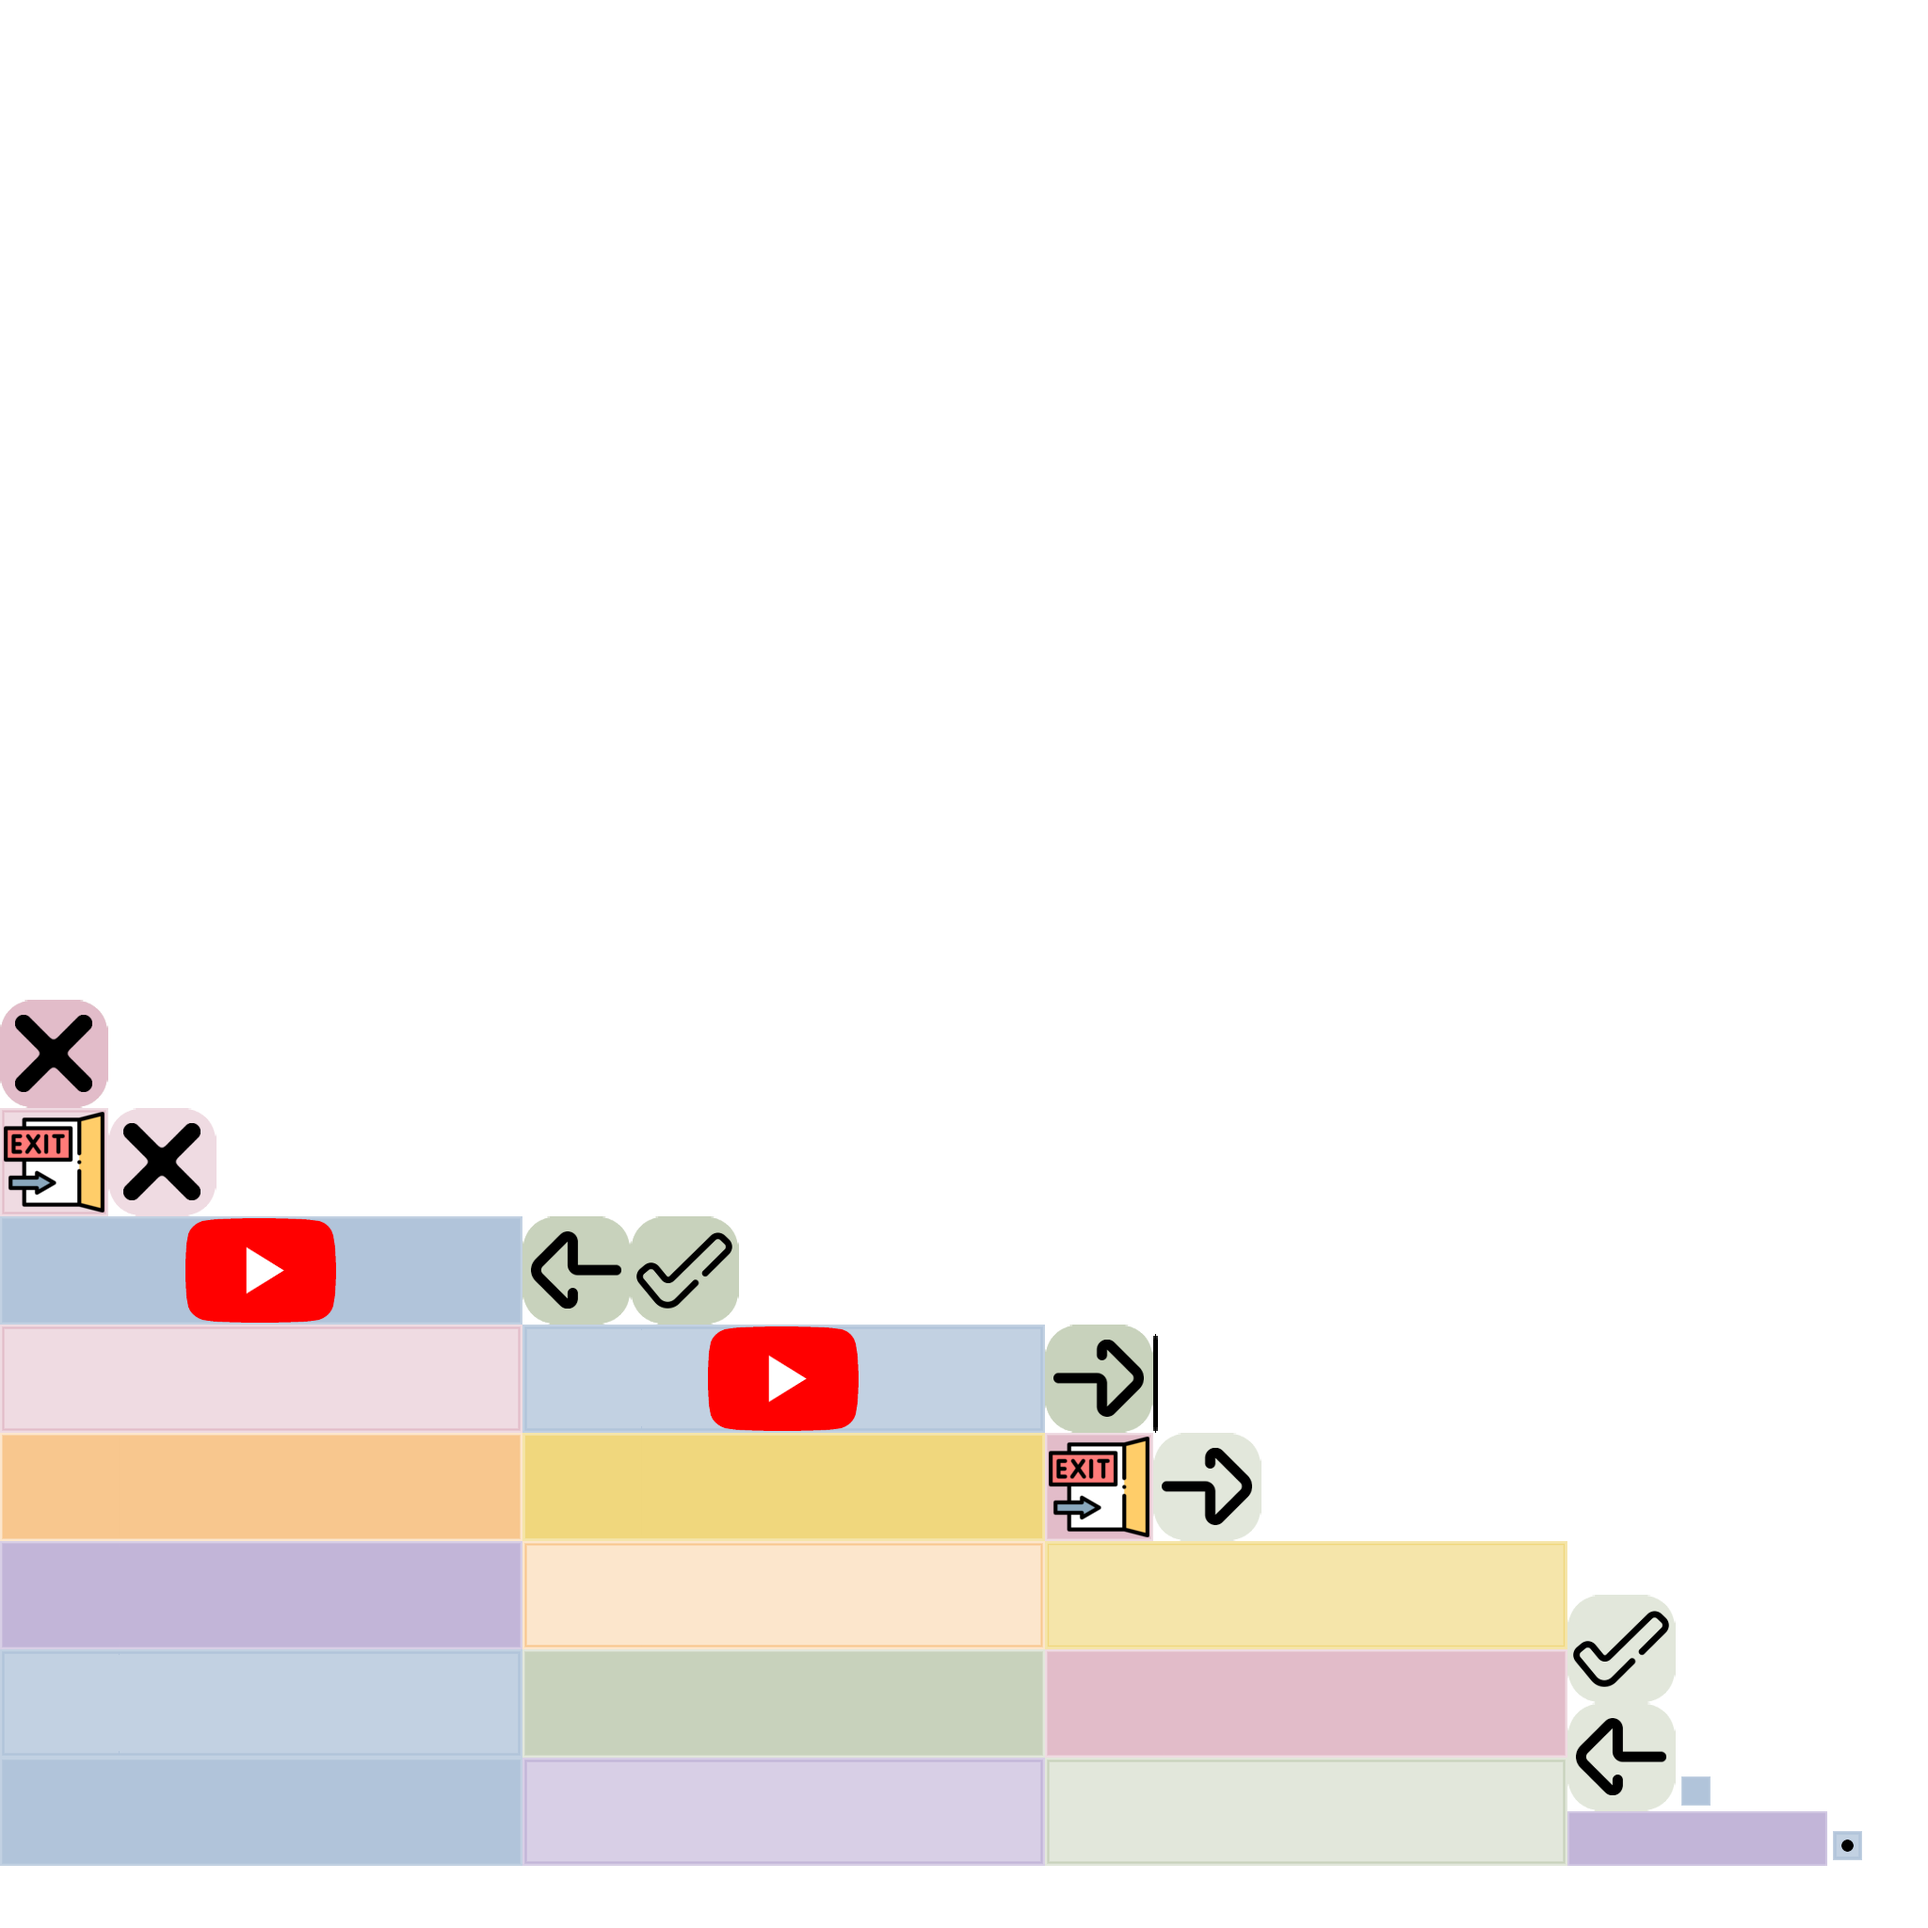
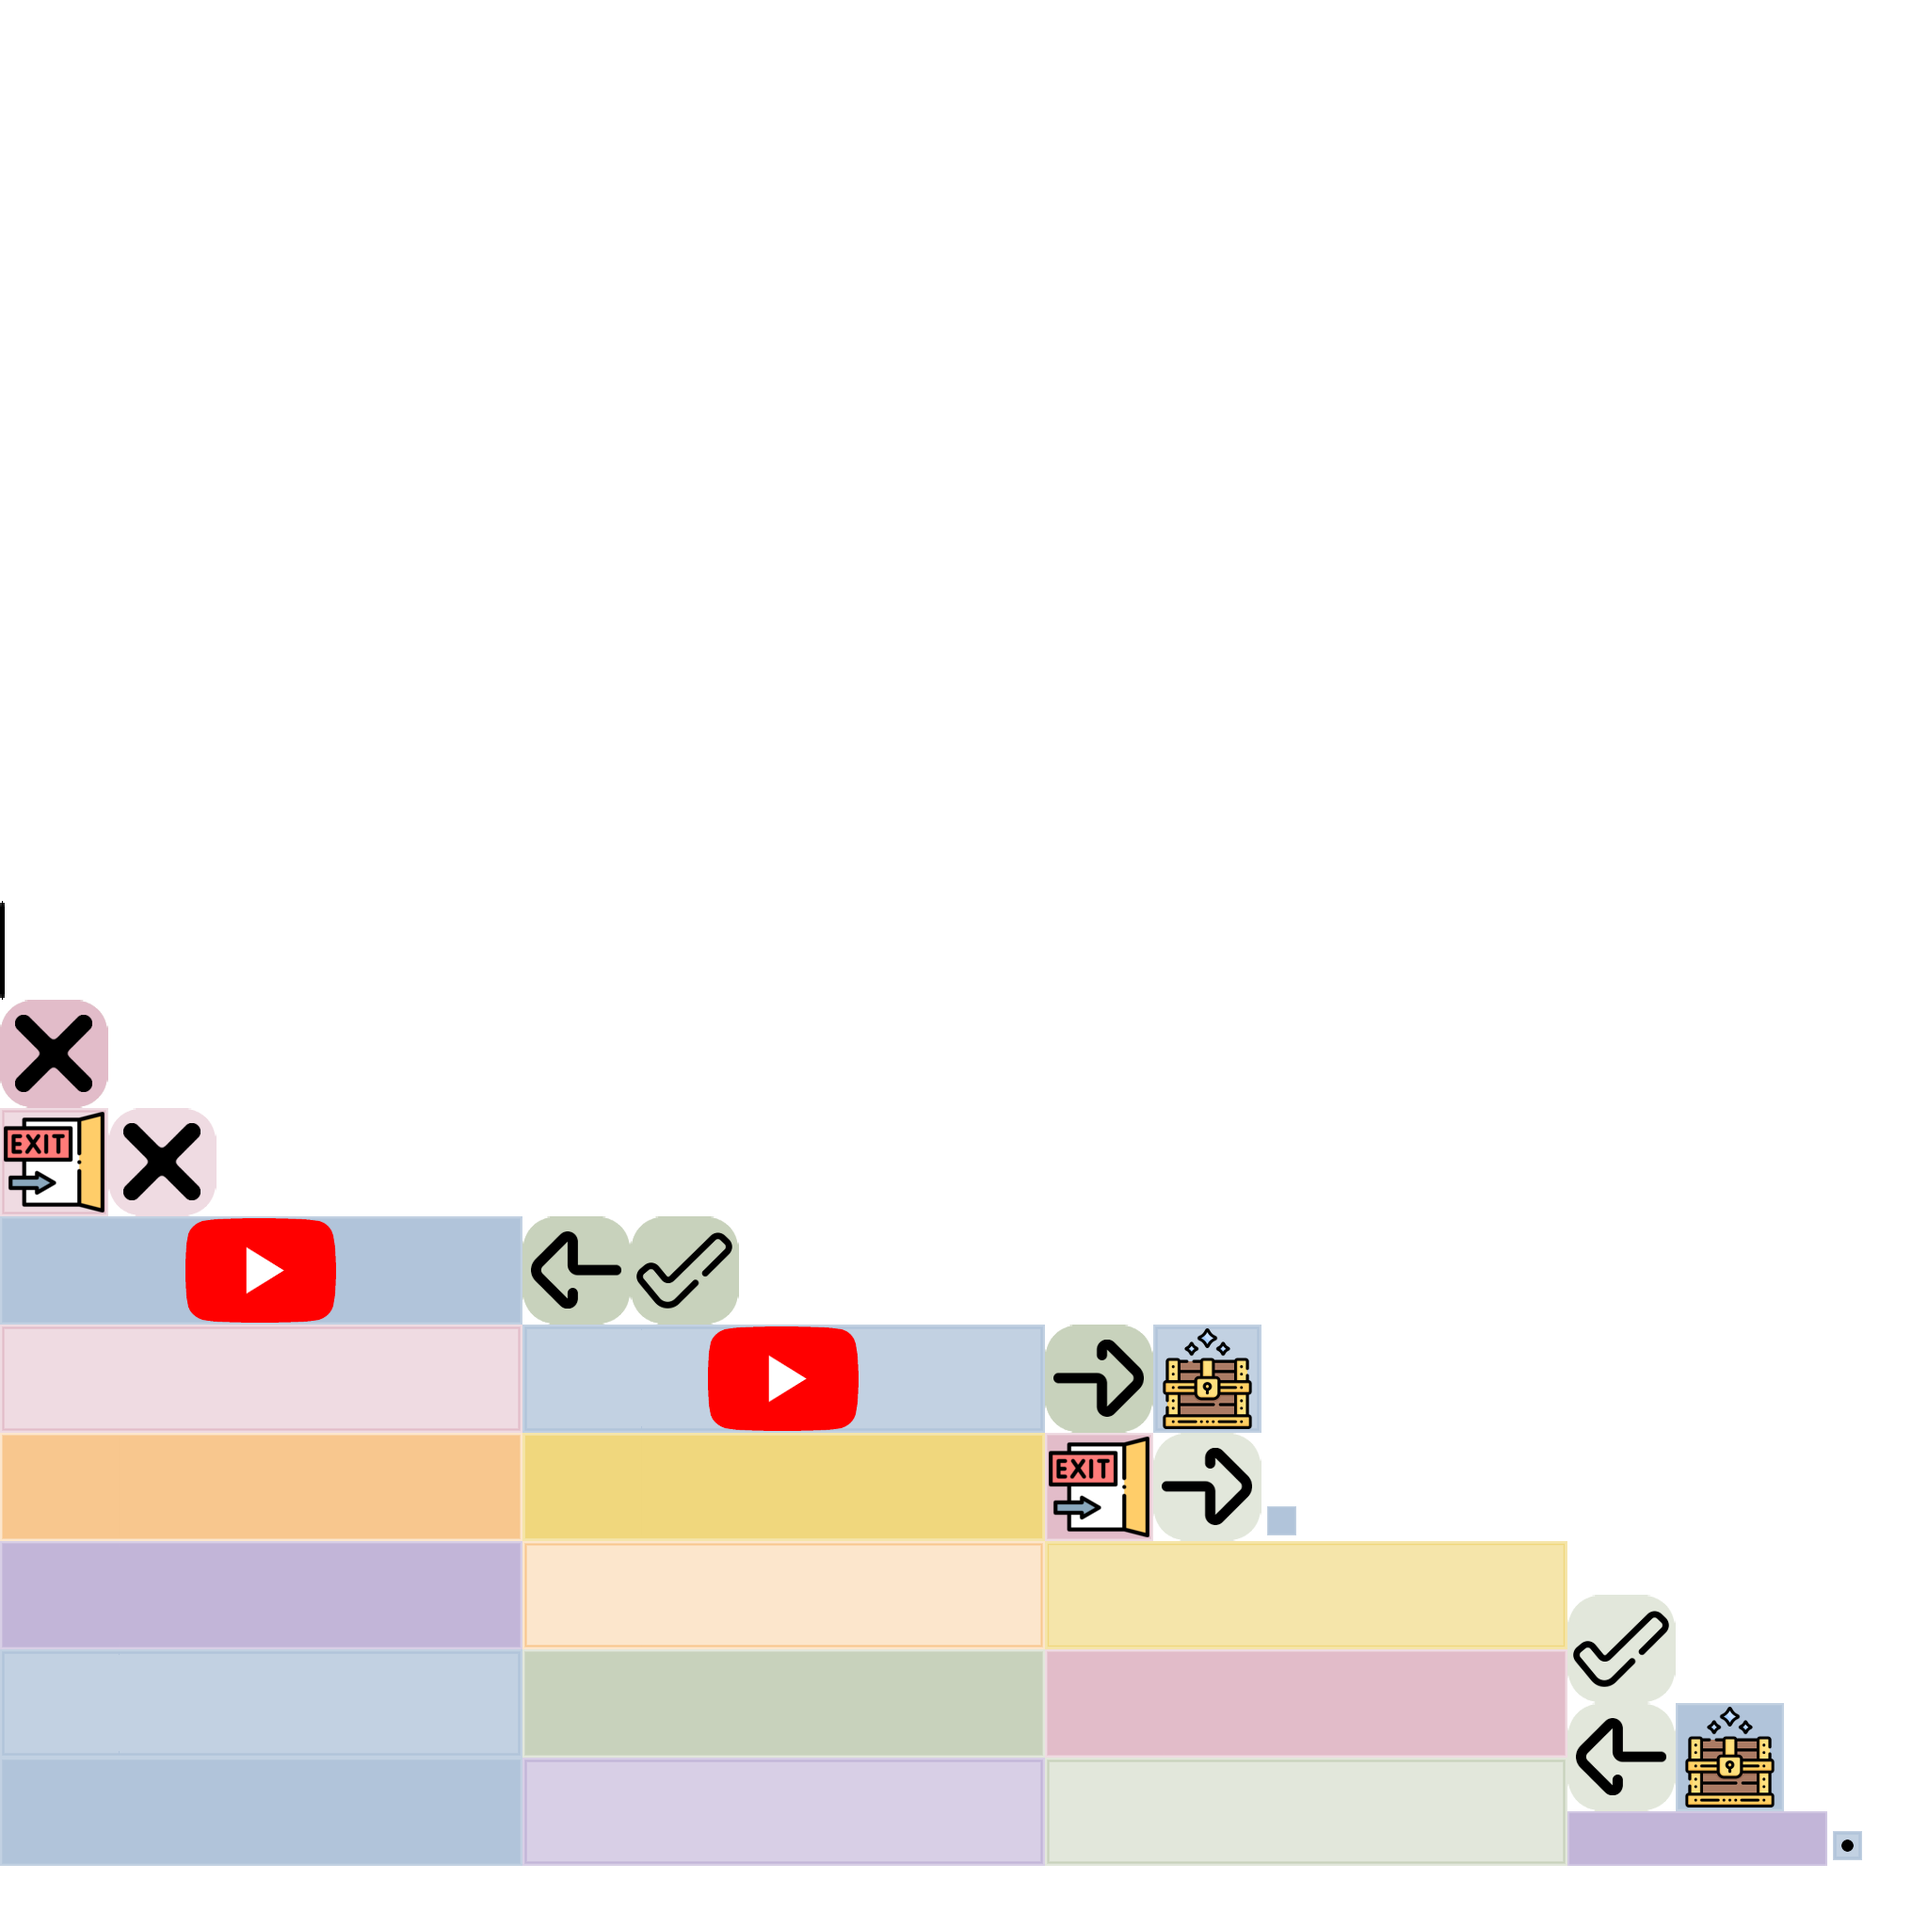
achievements are now treasures

Changed region(s): [[0.8438, 0.875, 0.9375, 0.9375], [0.5938, 0.6875, 0.6562, 0.75], [0.6562, 0.7812, 0.6875, 0.8125]]

diff --git a/core/src/com/mygdx/game/views/HomeScreen.java b/core/src/com/mygdx/game/views/HomeScreen.java
@@ -117,17 +117,20 @@ public class HomeScreen implements Screen {
 		userInfo.setText(userInfoMessage);
 		userInfo.setAlignment(Align.center);
 		Button logout = new Button(skin, "Exit"); //creates button with the "exit door"
-		Label latestAchievements = new Label("Latest Achivements:", skin); //creates a label with a purple background
+		Label latestAchievements = new Label("Latest Treasures:", skin); //creates a label with a purple background
 		latestAchievements.setAlignment(Align.center);
-		Label greatestAchievements = new Label("Greatest Achievements:", skin);
+		Label greatestAchievements = new Label("Greatest Treasures:", skin);
 		greatestAchievements.setAlignment(Align.center);
-		ImageTextButton achiemeventsButton = new ImageTextButton("My Achievements", skin); //creates a blue button (blue is default when no color is specified)
+		//ImageTextButton achiemeventsButton = new ImageTextButton("My Achievements", skin); //creates a blue button (blue is default when no color is specified)
+		Button achiemeventsButton = new Button(skin, "Treasure");
 		TextTooltip exitPopup = new TextTooltip(" Log out ", skin);
 		exitPopup.setInstant(true);
+		TextTooltip treasurePopup = new TextTooltip(" My treasures ", skin);
+		treasurePopup.setInstant(true);
 		//layout:
 		table.top();
 		table.row();
-		table.add(achiemeventsButton).fillX().uniformX().pad(5).padBottom(100).width(Gdx.graphics.getWidth()/5);
+		table.add(achiemeventsButton).uniformX().pad(5).padBottom(100);
 		table.add();
 		table.add(userInfo).fillX().uniformX().pad(5).padBottom(100).width(Gdx.graphics.getWidth()/5);
 		table.add(logout).uniformX().pad(5).padBottom(100);
@@ -176,6 +179,7 @@ public class HomeScreen implements Screen {
 		if(parent.problemNumber==0) begin.addListener(beginPopup);
 		else begin.addListener(continuePopup);
 		logout.addListener(exitPopup);
+		achiemeventsButton.addListener(treasurePopup);
 		gradeSelectBox.addListener(new ChangeListener() {
 			@Override
 			public void changed(ChangeEvent event, Actor actor) {

diff --git a/core/src/com/mygdx/game/views/ProblemEntryScreen.java b/core/src/com/mygdx/game/views/ProblemEntryScreen.java
@@ -105,8 +105,8 @@ public class ProblemEntryScreen implements Screen {
 		descriptionLine1.setAlignment(Align.center);
 		descriptionLine1.setWrap(true);
 		if (parent.lessonSelection.equals("Exam")) descriptionLine1.setText("You're about to begin " + parent.gradeSelection + " " + parent.lessonSelection + ", this includes all topics for " + parent.gradeSelection);
-		else if (parent.lessonSelection.equals("Test")) descriptionLine1.setText("You're about to begin " + parent.gradeSelection + " " + parent.topicSelection + " " + parent.lessonSelection + ", this will give you an achievement, if you do well");
-		else descriptionLine1.setText("You're about to begin " + parent.gradeSelection + " " + parent.topicSelection + " " + parent.lessonSelection + ", this is not going to give you an achievement");
+		else if (parent.lessonSelection.equals("Test")) descriptionLine1.setText("You're about to begin " + parent.gradeSelection + " " + parent.topicSelection + " " + parent.lessonSelection + ", this will give you a treasure, if you do well");
+		else descriptionLine1.setText("You're about to begin " + parent.gradeSelection + " " + parent.topicSelection + " " + parent.lessonSelection + ", this is not going to give you a treasure, it's just for practice");
         Label descriptionLine2 = new Label("click Begin to start", skin, "noBackground");
         descriptionLine2.setAlignment(Align.center);
 		ImageTextButton begin = new ImageTextButton("Begin", skin, "green");

diff --git a/core/src/com/mygdx/game/views/ResultsScreen.java b/core/src/com/mygdx/game/views/ResultsScreen.java
@@ -45,8 +45,8 @@ public class ResultsScreen implements Screen {
 		stage.draw();
 		userInfoMessage = parent.currentUser.getFullName();
 		if(parent.answerCounter>0) message = "You got " + parent.answerCounter + " problems correct!";
-		else if(parent.lessonSelection.equals("Exam")) message = "You should review " + parent.gradeSelection + " and try again.";
-		else message = "You should review " + parent.topicSelection + " and try again.";
+		else if(parent.lessonSelection.equals("Exam")) message = "You should review " + parent.gradeSelection + " and try again to collect the treasure.";
+		else message = "You should review " + parent.topicSelection + " and try again to collect the treasure.";
 	}
 
 	@Override

diff --git a/core/src/com/mygdx/game/views/AchievementsScreen.java b/core/src/com/mygdx/game/views/AchievementsScreen.java
@@ -101,7 +101,7 @@ public class AchievementsScreen implements Screen {
 		stage.addActor(topBarTable);
 		stage.addActor(table);
 		//creating different buttons/textfields/labels
-		Label achiemeventsLabel = new Label("My Achievements", skin);
+		Label achiemeventsLabel = new Label("My Treasures", skin);
 		achiemeventsLabel.setAlignment(Align.center);
 		Label userInfo = new Label("", skin);
 		userInfo.setText(userInfoMessage);
